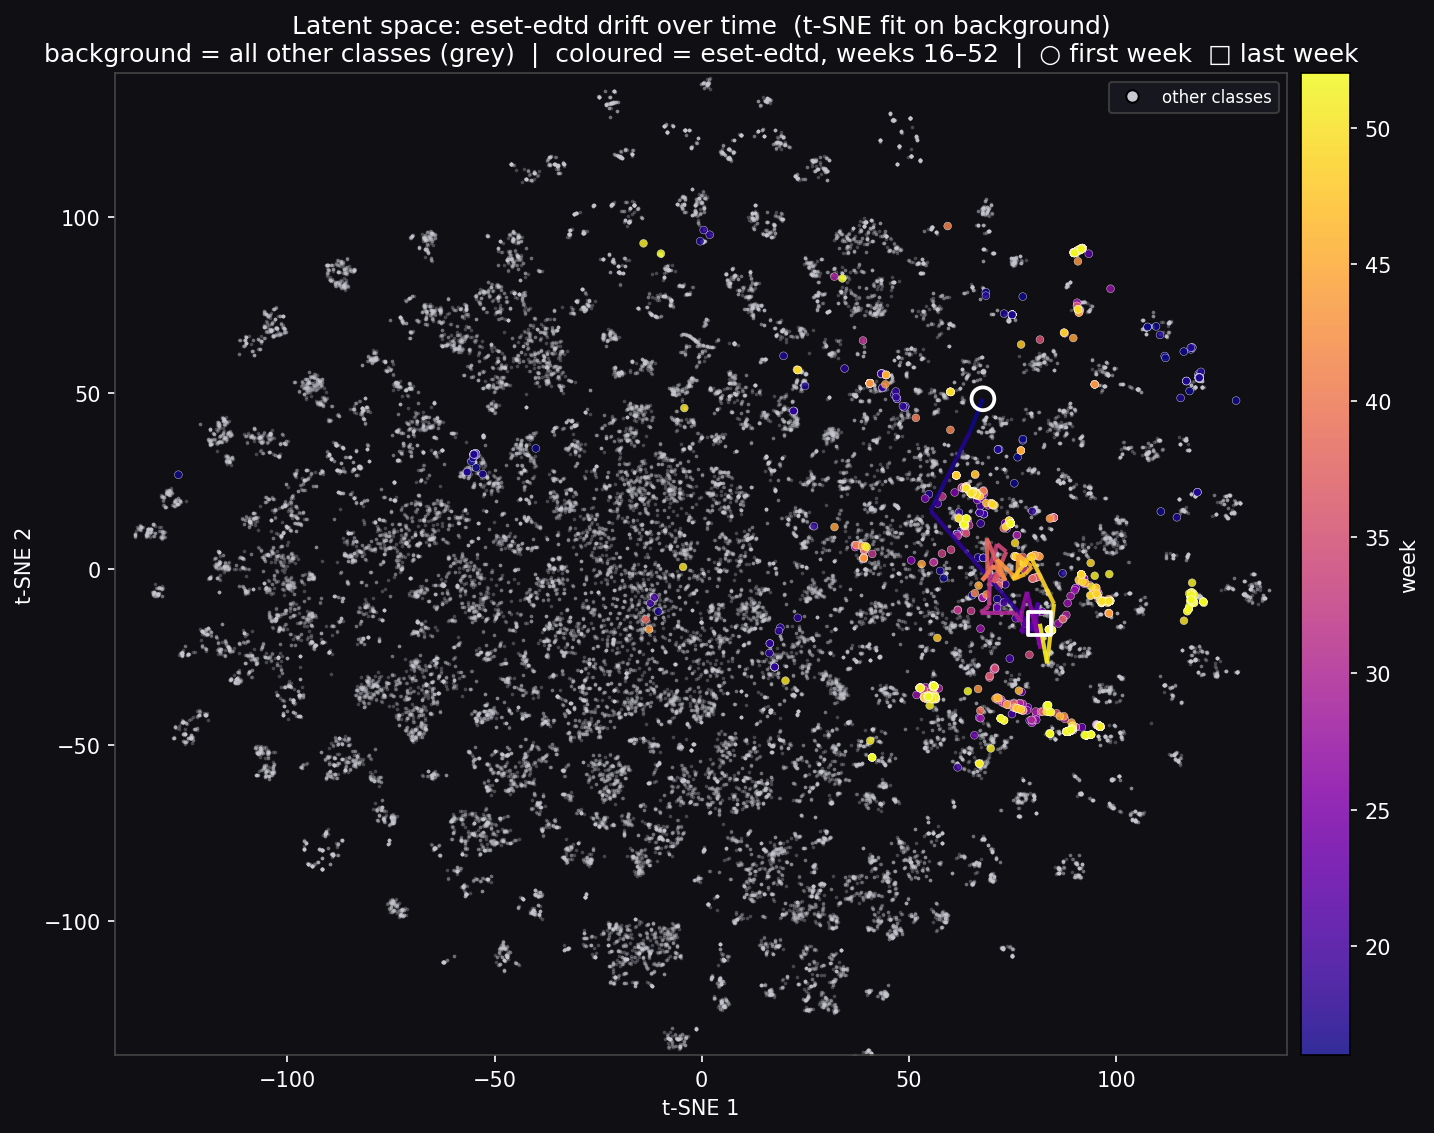
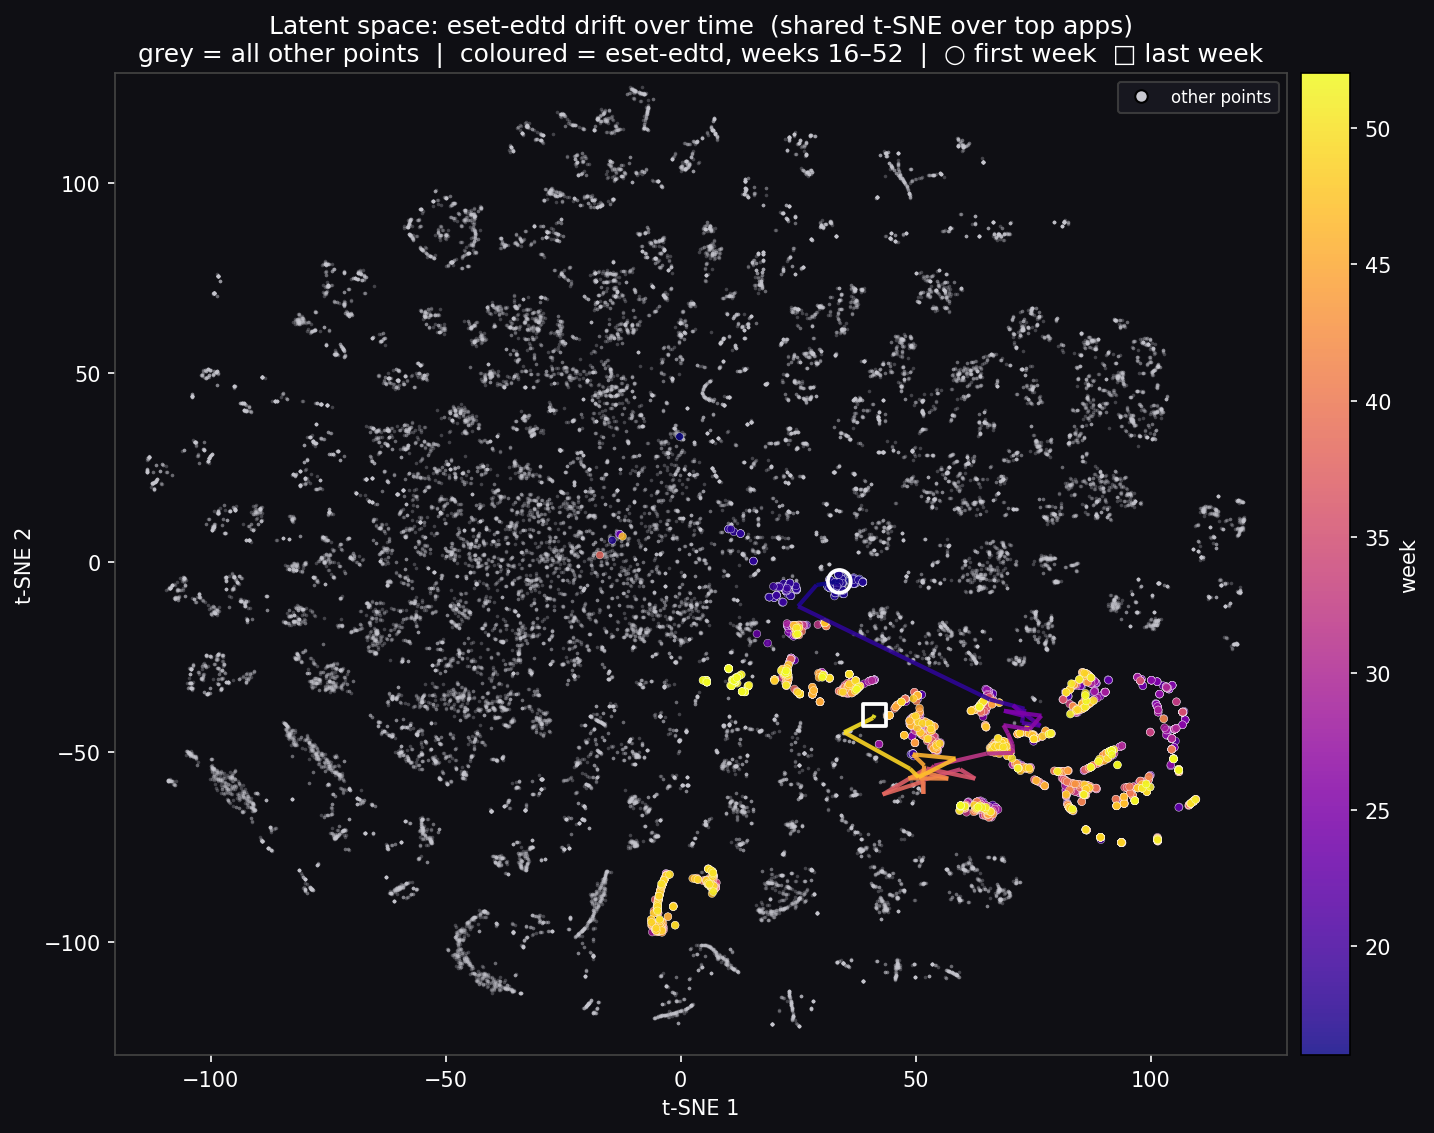
Add shared-fit multi-app t-SNE drift viz + top-10 slurm
Fit t-SNE once on background + the top-N drift apps, cache the embedding, and
render one consistent per-app plot from the shared map (results/tsne_cache/).
run_tsne_top10.slurm runs it as a single killable job (not an array — the fit is
shared). Includes the generated top-10 figures.

diff --git a/scripts/viz/plot_tsne_temporal_multi.py b/scripts/viz/plot_tsne_temporal_multi.py
@@ -1,0 +1,193 @@
+#!/usr/bin/env python
+"""
+Shared-fit t-SNE temporal drift for the top-N apps.
+
+t-SNE has no out-of-sample transform and every fit is a different layout, so we
+fit it ONCE on (background = all other classes) + (the N focal apps across all
+weeks), cache that 2-D embedding, and then render one plot per focal app from the
+SAME map. Result: N mutually consistent figures for the price of a single t-SNE.
+
+Each rendered plot (dark theme, à la figs/domain_gap_tsne.png):
+  - background = everything except the highlighted app (grey)
+  - highlighted app = its samples coloured by week (plasma) + a centroid track
+All N plots share identical axes, so positions are directly comparable.
+
+The fit is cached under results/tsne_cache/ so re-rendering (e.g. tweaking styling)
+skips the expensive step. Pass --refit to recompute.
+
+Usage:
+    python scripts/viz/plot_tsne_temporal_multi.py --top 10
+    python scripts/viz/plot_tsne_temporal_multi.py \
+        --inference_dir results/inference/week_16_inference --min_week 16 --top 10
+"""
+
+import sys
+from pathlib import Path
+sys.path.insert(0, str(Path(__file__).resolve().parents[2]))  # repo root: config, data_utils, ...
+
+import argparse
+import numpy as np
+import matplotlib
+matplotlib.use('Agg')
+import matplotlib.pyplot as plt
+from matplotlib.collections import LineCollection
+from matplotlib.lines import Line2D
+from sklearn.manifold import TSNE
+
+from plot_density_drift import load_all, class_names, rank_classes, inference_week_tag
+
+
+# ---------------------------------------------------------------------------
+# Sampling + shared t-SNE fit (cached)
+# ---------------------------------------------------------------------------
+
+def build_or_load_embedding(weeks, embs, labs, focal, cache_path,
+                            max_bg_per_class, max_focal_per_week, perplexity,
+                            seed, refit):
+    """Return (xy, app, week_of) where app[i] is the class id of focal point i or
+    -1 for background, and week_of[i] is its week (or -1). Cached to cache_path."""
+    if cache_path.exists() and not refit:
+        d = np.load(cache_path)
+        if list(d['focal']) == list(focal):
+            print(f'loaded cached t-SNE embedding: {cache_path}')
+            return d['xy'], d['app'], d['week']
+        print('cache focal set differs — refitting')
+
+    rng = np.random.RandomState(seed)
+    focal_set = set(focal)
+    per_week_bg = max(1, max_bg_per_class // len(weeks) + 1)
+
+    chunks, app_ids, week_ids = [], [], []
+    for wn, emb, lab in zip(weeks, embs, labs):
+        for c in focal:                                   # focal apps: dense per week
+            idx = np.where(lab == c)[0]
+            if len(idx) > max_focal_per_week:
+                idx = rng.choice(idx, max_focal_per_week, replace=False)
+            if len(idx):
+                chunks.append(emb[idx]); app_ids.append(np.full(len(idx), c)); week_ids.append(np.full(len(idx), wn))
+        for c in np.unique(lab):                          # background: a few per class/week
+            if c in focal_set:
+                continue
+            idx = np.where(lab == c)[0]
+            if len(idx) > per_week_bg:
+                idx = rng.choice(idx, per_week_bg, replace=False)
+            if len(idx):
+                chunks.append(emb[idx]); app_ids.append(np.full(len(idx), -1)); week_ids.append(np.full(len(idx), -1))
+
+    X = np.concatenate(chunks)
+    app = np.concatenate(app_ids)
+    week = np.concatenate(week_ids)
+    n_focal = int((app >= 0).sum())
+    print(f'fitting t-SNE once on {len(X)} points ({n_focal} focal across {len(focal)} apps, '
+          f'{len(X) - n_focal} background), perplexity {perplexity}...')
+
+    xy = TSNE(n_components=2, perplexity=perplexity, n_iter=1000, init='pca',
+              random_state=seed, n_jobs=-1, verbose=1).fit_transform(X)
+
+    cache_path.parent.mkdir(parents=True, exist_ok=True)
+    np.savez(cache_path, xy=xy, app=app, week=week, focal=np.array(focal))
+    print(f'saved t-SNE cache -> {cache_path}')
+    return xy, app, week
+
+
+# ---------------------------------------------------------------------------
+# Per-app rendering (from the shared embedding)
+# ---------------------------------------------------------------------------
+
+def render_app(xy, app, week, c, name, xlim, ylim, out_path):
+    BG = '#0f0f14'
+    is_focal = app == c
+    fxy, fwk = xy[is_focal], week[is_focal]
+    uw = np.array(sorted(np.unique(fwk)))
+    cent = np.array([fxy[fwk == w].mean(0) for w in uw])
+
+    fig, ax = plt.subplots(figsize=(12, 8.5))
+    fig.patch.set_facecolor(BG); ax.set_facecolor(BG)
+
+    # everything except this app -> grey context
+    ax.scatter(xy[~is_focal, 0], xy[~is_focal, 1], s=3, c='#c8c8d0', alpha=0.28,
+               linewidths=0, zorder=1, rasterized=True)
+
+    norm = plt.Normalize(uw.min(), uw.max())
+    sc = ax.scatter(fxy[:, 0], fxy[:, 1], s=14, c=fwk, cmap='plasma', norm=norm,
+                    alpha=0.85, linewidths=0.2, edgecolors='white', zorder=3, rasterized=True)
+
+    seg = np.stack([cent[:-1], cent[1:]], axis=1)
+    ax.add_collection(LineCollection(seg, cmap='plasma', norm=norm, array=uw[:-1],
+                                     linewidths=2.0, alpha=0.9, zorder=4))
+    ax.scatter(*cent[0], marker='o', s=120, facecolor='none', edgecolor='white', linewidths=1.8, zorder=5)
+    ax.scatter(*cent[-1], marker='s', s=120, facecolor='none', edgecolor='white', linewidths=1.8, zorder=5)
+
+    ax.set_xlim(*xlim); ax.set_ylim(*ylim)
+    ax.set_xlabel('t-SNE 1', color='white'); ax.set_ylabel('t-SNE 2', color='white')
+    ax.set_title(f'Latent space: {name} drift over time  (shared t-SNE over top apps)\n'
+                 f'grey = all other points  |  coloured = {name}, weeks {uw.min()}–{uw.max()}  |  '
+                 '○ first week  □ last week', color='white', fontsize=12)
+    ax.tick_params(colors='white')
+    for s in ax.spines.values():
+        s.set_color('#444')
+    cbar = fig.colorbar(sc, ax=ax, pad=0.01); cbar.set_label('week', color='white')
+    cbar.ax.yaxis.set_tick_params(color='white')
+    plt.setp(plt.getp(cbar.ax, 'yticklabels'), color='white')
+    ax.legend(handles=[Line2D([0], [0], marker='o', color='none', markerfacecolor='#c8c8d0',
+                              markersize=6, label='other points')],
+              loc='upper right', fontsize=8, facecolor='#1a1a22', edgecolor='#444', labelcolor='white')
+
+    out_path.parent.mkdir(parents=True, exist_ok=True)
+    fig.savefig(out_path, dpi=150, bbox_inches='tight', facecolor=BG)
+    plt.close(fig)
+    print(f'  saved -> {out_path}')
+
+
+def main():
+    ap = argparse.ArgumentParser()
+    ap.add_argument('--inference_dir', default='results/inference/week_1_inference')
+    ap.add_argument('--dataset_root', default='/home/anatbr/dataset/CESNET-TLS-Year22_v2')
+    ap.add_argument('--out_dir', default='figs/drift')
+    ap.add_argument('--cache_dir', default='results/tsne_cache')
+    ap.add_argument('--classes', type=int, nargs='+', default=None,
+                    help='explicit focal class ids (overrides --top)')
+    ap.add_argument('--top', type=int, default=10, help='number of top-drift apps')
+    ap.add_argument('--max_bg_per_class', type=int, default=25)
+    ap.add_argument('--max_focal_per_week', type=int, default=80)
+    ap.add_argument('--perplexity', type=float, default=40.0)
+    ap.add_argument('--min_week', type=int, default=None)
+    ap.add_argument('--max_week', type=int, default=None)
+    ap.add_argument('--refit', action='store_true', help='recompute the t-SNE fit')
+    ap.add_argument('--seed', type=int, default=42)
+    args = ap.parse_args()
+
+    weeks, embs, labs = load_all(args.inference_dir, args.min_week, args.max_week)
+    print(f'weeks {weeks[0]}-{weeks[-1]} ({len(weeks)} files)')
+    idx2name = class_names(args.dataset_root)
+
+    if args.classes:
+        focal = list(args.classes)
+    else:
+        focal = [c for c, _ in rank_classes(weeks, embs, labs)[:args.top]]
+    names = {c: idx2name.get(c, f'class{c}') for c in focal}
+    print('focal apps:', [(c, names[c]) for c in focal])
+
+    tag = inference_week_tag(args.inference_dir)
+    if args.min_week is not None or args.max_week is not None:
+        tag += f'_{weeks[0]}to{weeks[-1]}'
+    cache_path = Path(args.cache_dir) / f'tsne_{tag}_top{len(focal)}.npz'
+
+    xy, app, week = build_or_load_embedding(
+        weeks, embs, labs, focal, cache_path,
+        args.max_bg_per_class, args.max_focal_per_week, args.perplexity, args.seed, args.refit)
+
+    # shared axis limits (same frame for every app, so plots are comparable)
+    xlo, xhi = np.percentile(xy[:, 0], [0.5, 99.5]); ylo, yhi = np.percentile(xy[:, 1], [0.5, 99.5])
+    px, py = 0.05 * (xhi - xlo), 0.05 * (yhi - ylo)
+    xlim, ylim = (xlo - px, xhi + px), (ylo - py, yhi + py)
+
+    out_dir = Path(args.out_dir)
+    for c in focal:
+        render_app(xy, app, week, c, names[c], xlim, ylim,
+                   out_dir / f'tsne_temporal_{tag}_{c:03d}_{names[c]}.png')
+    print(f'done: {len(focal)} plots in {out_dir}')
+
+
+if __name__ == '__main__':
+    main()